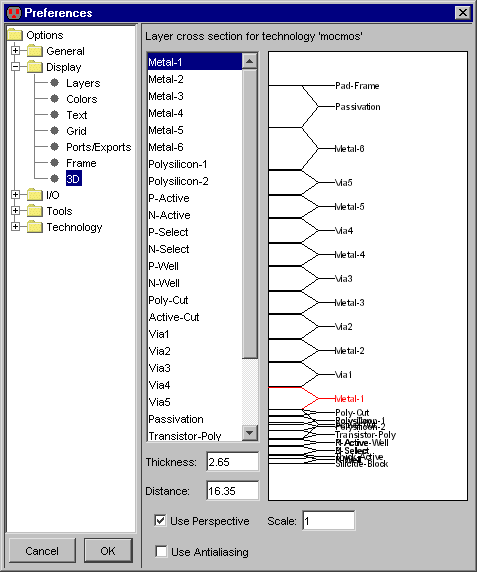
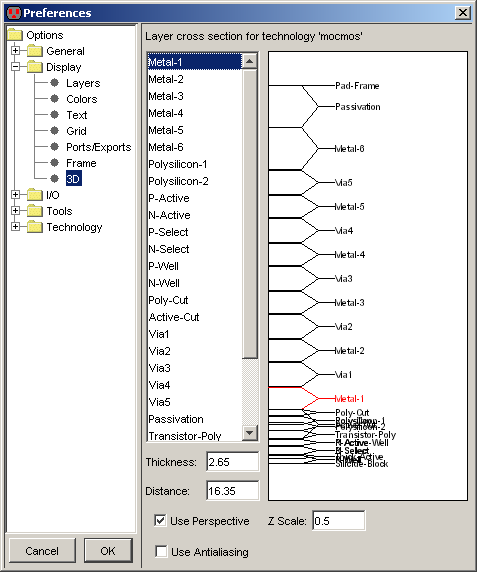
manual update
git-svn-id: https://svn.java.net/svn/electric~svn/trunk@2096 b64ed6c1-75a8-e629-b1da-d0dae74a743a

diff --git a/srcj/com/sun/electric/tool/user/help/helphtml/chap04-11.html b/srcj/com/sun/electric/tool/user/help/helphtml/chap04-11.html
@@ -18,18 +18,27 @@ See <A HREF="chap01-05.html#chap01-05">Section 1-5</A> for details about Electri
 <P>
 To see a circuit in 3D, use the <B>3D Display</B> command (in menu <B>Window</B>).
 The circuit is displayed in 3D, and mouse movements will rotate, pan, or zoom the circuit.
-Use the left button to rotate and the right button for panning. To zoom in drag the left button by pressing 
-"Alt" key in one direction and the opposite to zoom out.
+Use the left button to rotate, the right button for panning and the middle one for zooming.
+To zoom in drag the middle button in one direction and the opposite to zoom out.
 <P>
-Two view modes are available: perspective (default) and parallel views. Unselect radio box "Use Perspective" 
-to switch to parallel mode. If available, antialiasing can be turned on by clicking on radio box "Use Antialiasing".
-Due to performance issues, antialiasing is not on by default.
-<P>
-For optimal 3D viewing, the circuit should be centered in the window before issuing the
-<B>3D Display</B> command. 
+Nodes and arcs will be highlighted in the 3D view by clicking in the corresponding 2D instance, and vice versa.
+Furthermore, the network tool will also highlight nodes if they are displayed in a 3D view.
+In case of cells, bounding boxes will be shown in the scene graph and the interior will be displayed if cells are marked
+as extended.
 <P>
 To control the 3D view,
 use the "3D" preferences (in menu <B>File / Preferences...</B>, "Display" section, "3D" tab).
+On the 3D tab, thickness and Z distance of each layer can be modified as well as the view mode,
+the scale along Z axis and antialiasing feature.
+<P>
+Two view modes are available: perspective (default) and parallel views. Unselect radio box "Use Perspective" 
+to switch to parallel mode.
+If available, antialiasing can be turned on by clicking on radio box "Use Antialiasing".
+Due to performance issues, antialiasing is not on by default.
+In case of having layers are too thin along Z axis compared to X,Y values, use the scale factor field.
+By default it is set to 1.
+<!--For optimal 3D viewing, the circuit should be centered in the window before issuing the
+<B>3D Display</B> command. -->
 <P>
 <TABLE><TR><TD>
 On the left side of this dialog is a list of layers in the current technology.

diff --git a/srcj/com/sun/electric/tool/user/help/helphtml/chap08-02-01.html b/srcj/com/sun/electric/tool/user/help/helphtml/chap08-02-01.html
@@ -17,8 +17,9 @@ very large contact nodes can create excessive work for the design-rule checker a
 To save time, check the "Ignore center cuts in large contacts" check box,
 which will examine only the cut layers around the edges of contact nodes.
 <P>
-DRC rules for new technologies might require minimum and enclosed area checking however this could be time
-consuming. To ignore this error type, check the "Ignore area checking" check box.
+DRC rules for new technologies might require area checking as well as coverage checking however these talks could be time
+consuming. To ignore these error types, check the "Ignore area checking" check box for area checking and
+"Ignore Polysilicon Select rule" for polysilicon enclosure rules required by certain select regions.
 <P>
 </TD><TD><CENTER><IMG SRC="fig09-20.png" ALT="Figure 9.20"></CENTER></TD></TR></TABLE>
 <P>

diff --git a/srcj/com/sun/electric/tool/user/help/helphtml/chap08-03-01.html b/srcj/com/sun/electric/tool/user/help/helphtml/chap08-03-01.html
@@ -20,8 +20,9 @@ or not to check for contacts at all.
 </TD><TD><CENTER><IMG SRC="fig09-15.png" ALT="Figure 9.15"></CENTER></TD></TR></TABLE>
 <P>
 The Well Checker also checks spacing rules between well areas.
-Although this is generally the domain of the Design Rule Checker, it is not done there,
-so it is done here.
+Although this is generally the domain of the Design Rule Checker (DRC), it could be done here by checking
+"Check DRC Spacing Rules for Wells" box.
+Since the well checker has not been designed for DRC purposes, the algorithm is not efficient and therefore the option is off by default.
 <P>
 The Well Checker also checks that there is a connection to power and ground in the appropriate places.
 You can disable these checks in the "Well Check" dialog.

diff --git a/srcj/com/sun/electric/tool/user/dialogs/options/WellCheckTab.java b/srcj/com/sun/electric/tool/user/dialogs/options/WellCheckTab.java
@@ -243,13 +243,13 @@ public class WellCheckTab extends PreferencePanel
 
         wellCheck.add(jPanel2, new java.awt.GridBagConstraints());
 
-        drcCheck.setText("Check DRC Spacing Rule");
+        drcCheck.setText("Check DRC Spacing Rules for Wells");
         gridBagConstraints = new java.awt.GridBagConstraints();
         gridBagConstraints.gridx = 0;
         gridBagConstraints.gridy = 6;
         gridBagConstraints.gridwidth = 2;
-        gridBagConstraints.insets = new java.awt.Insets(4, 4, 4, 4);
         gridBagConstraints.anchor = java.awt.GridBagConstraints.NORTH;
+        gridBagConstraints.insets = new java.awt.Insets(4, 4, 4, 4);
         wellCheck.add(drcCheck, gridBagConstraints);
 
         getContentPane().add(wellCheck, new java.awt.GridBagConstraints());

diff --git a/srcj/com/sun/electric/tool/user/dialogs/options/ThreeDTab.java b/srcj/com/sun/electric/tool/user/dialogs/options/ThreeDTab.java
@@ -119,7 +119,7 @@ public class ThreeDTab extends PreferencePanel
 		gbc.insets = new java.awt.Insets(4, 4, 4, 4);
 		threeD.add(threeDSideView, gbc);
 
-        JLabel scaleLabel = new javax.swing.JLabel("Scale:");
+        JLabel scaleLabel = new javax.swing.JLabel("Z Scale:");
         gbc = new java.awt.GridBagConstraints();
         gbc.gridx = 2;
         gbc.gridy = 5;

diff --git a/srcj/com/sun/electric/database/geometry/GeometryHandler.java b/srcj/com/sun/electric/database/geometry/GeometryHandler.java
@@ -3,6 +3,7 @@
  * Electric(tm) VLSI Design System
  *
  * File: GeometryHandler.java
+ * Written by Gilda Garreton, Sun Microsystems.
  *
  * Copyright (c) 2004 Sun Microsystems and Static Free Software
  *

diff --git a/srcj/com/sun/electric/plugins/j3d/View3DWindow.java b/srcj/com/sun/electric/plugins/j3d/View3DWindow.java
@@ -3,6 +3,7 @@
  * Electric(tm) VLSI Design System
  *
  * File: View3DWindow.java
+ * Written by Gilda Garreton, Sun Microsystems.
  *
  * Copyright (c) 2003 Sun Microsystems and Static Free Software
  *

diff --git a/srcj/com/sun/electric/database/geometry/PolyQTree.java b/srcj/com/sun/electric/database/geometry/PolyQTree.java
@@ -3,6 +3,7 @@
  * Electric(tm) VLSI Design System
  *
  * File: PolyQTree.java
+ * Written by Gilda Garreton, Sun Microsystems.
  *
  * Copyright (c) 2003 Sun Microsystems and Static Free Software
  *
